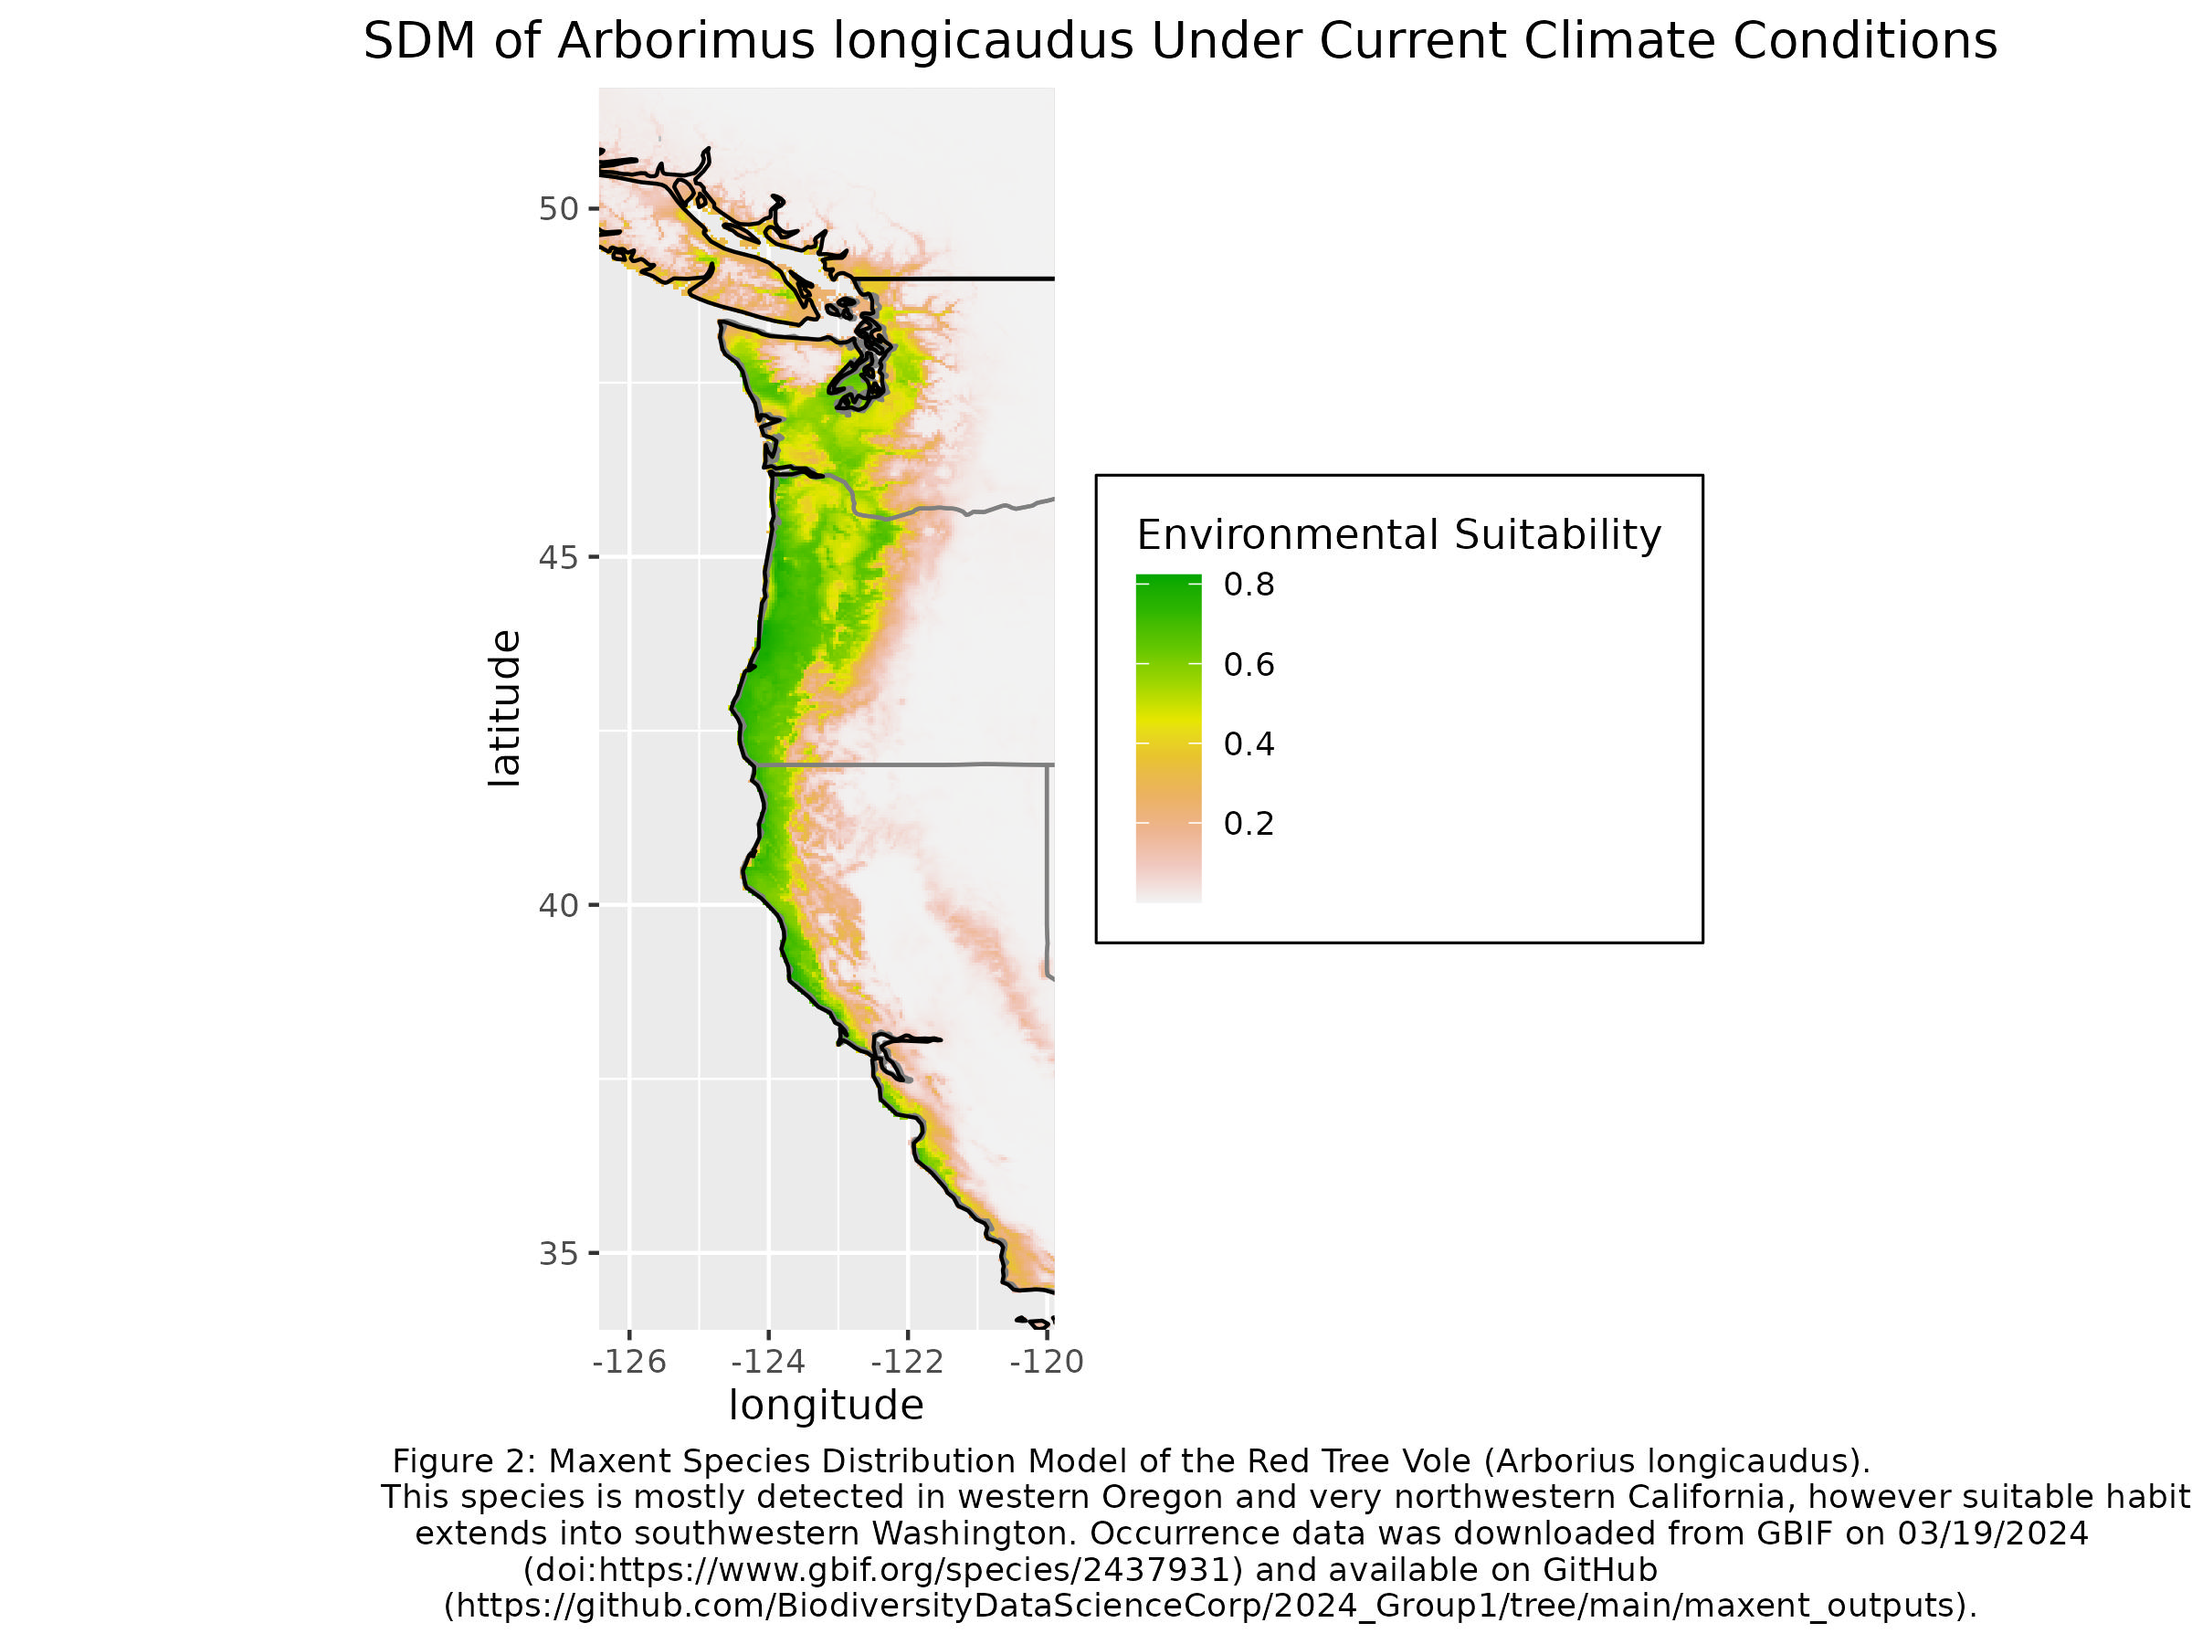
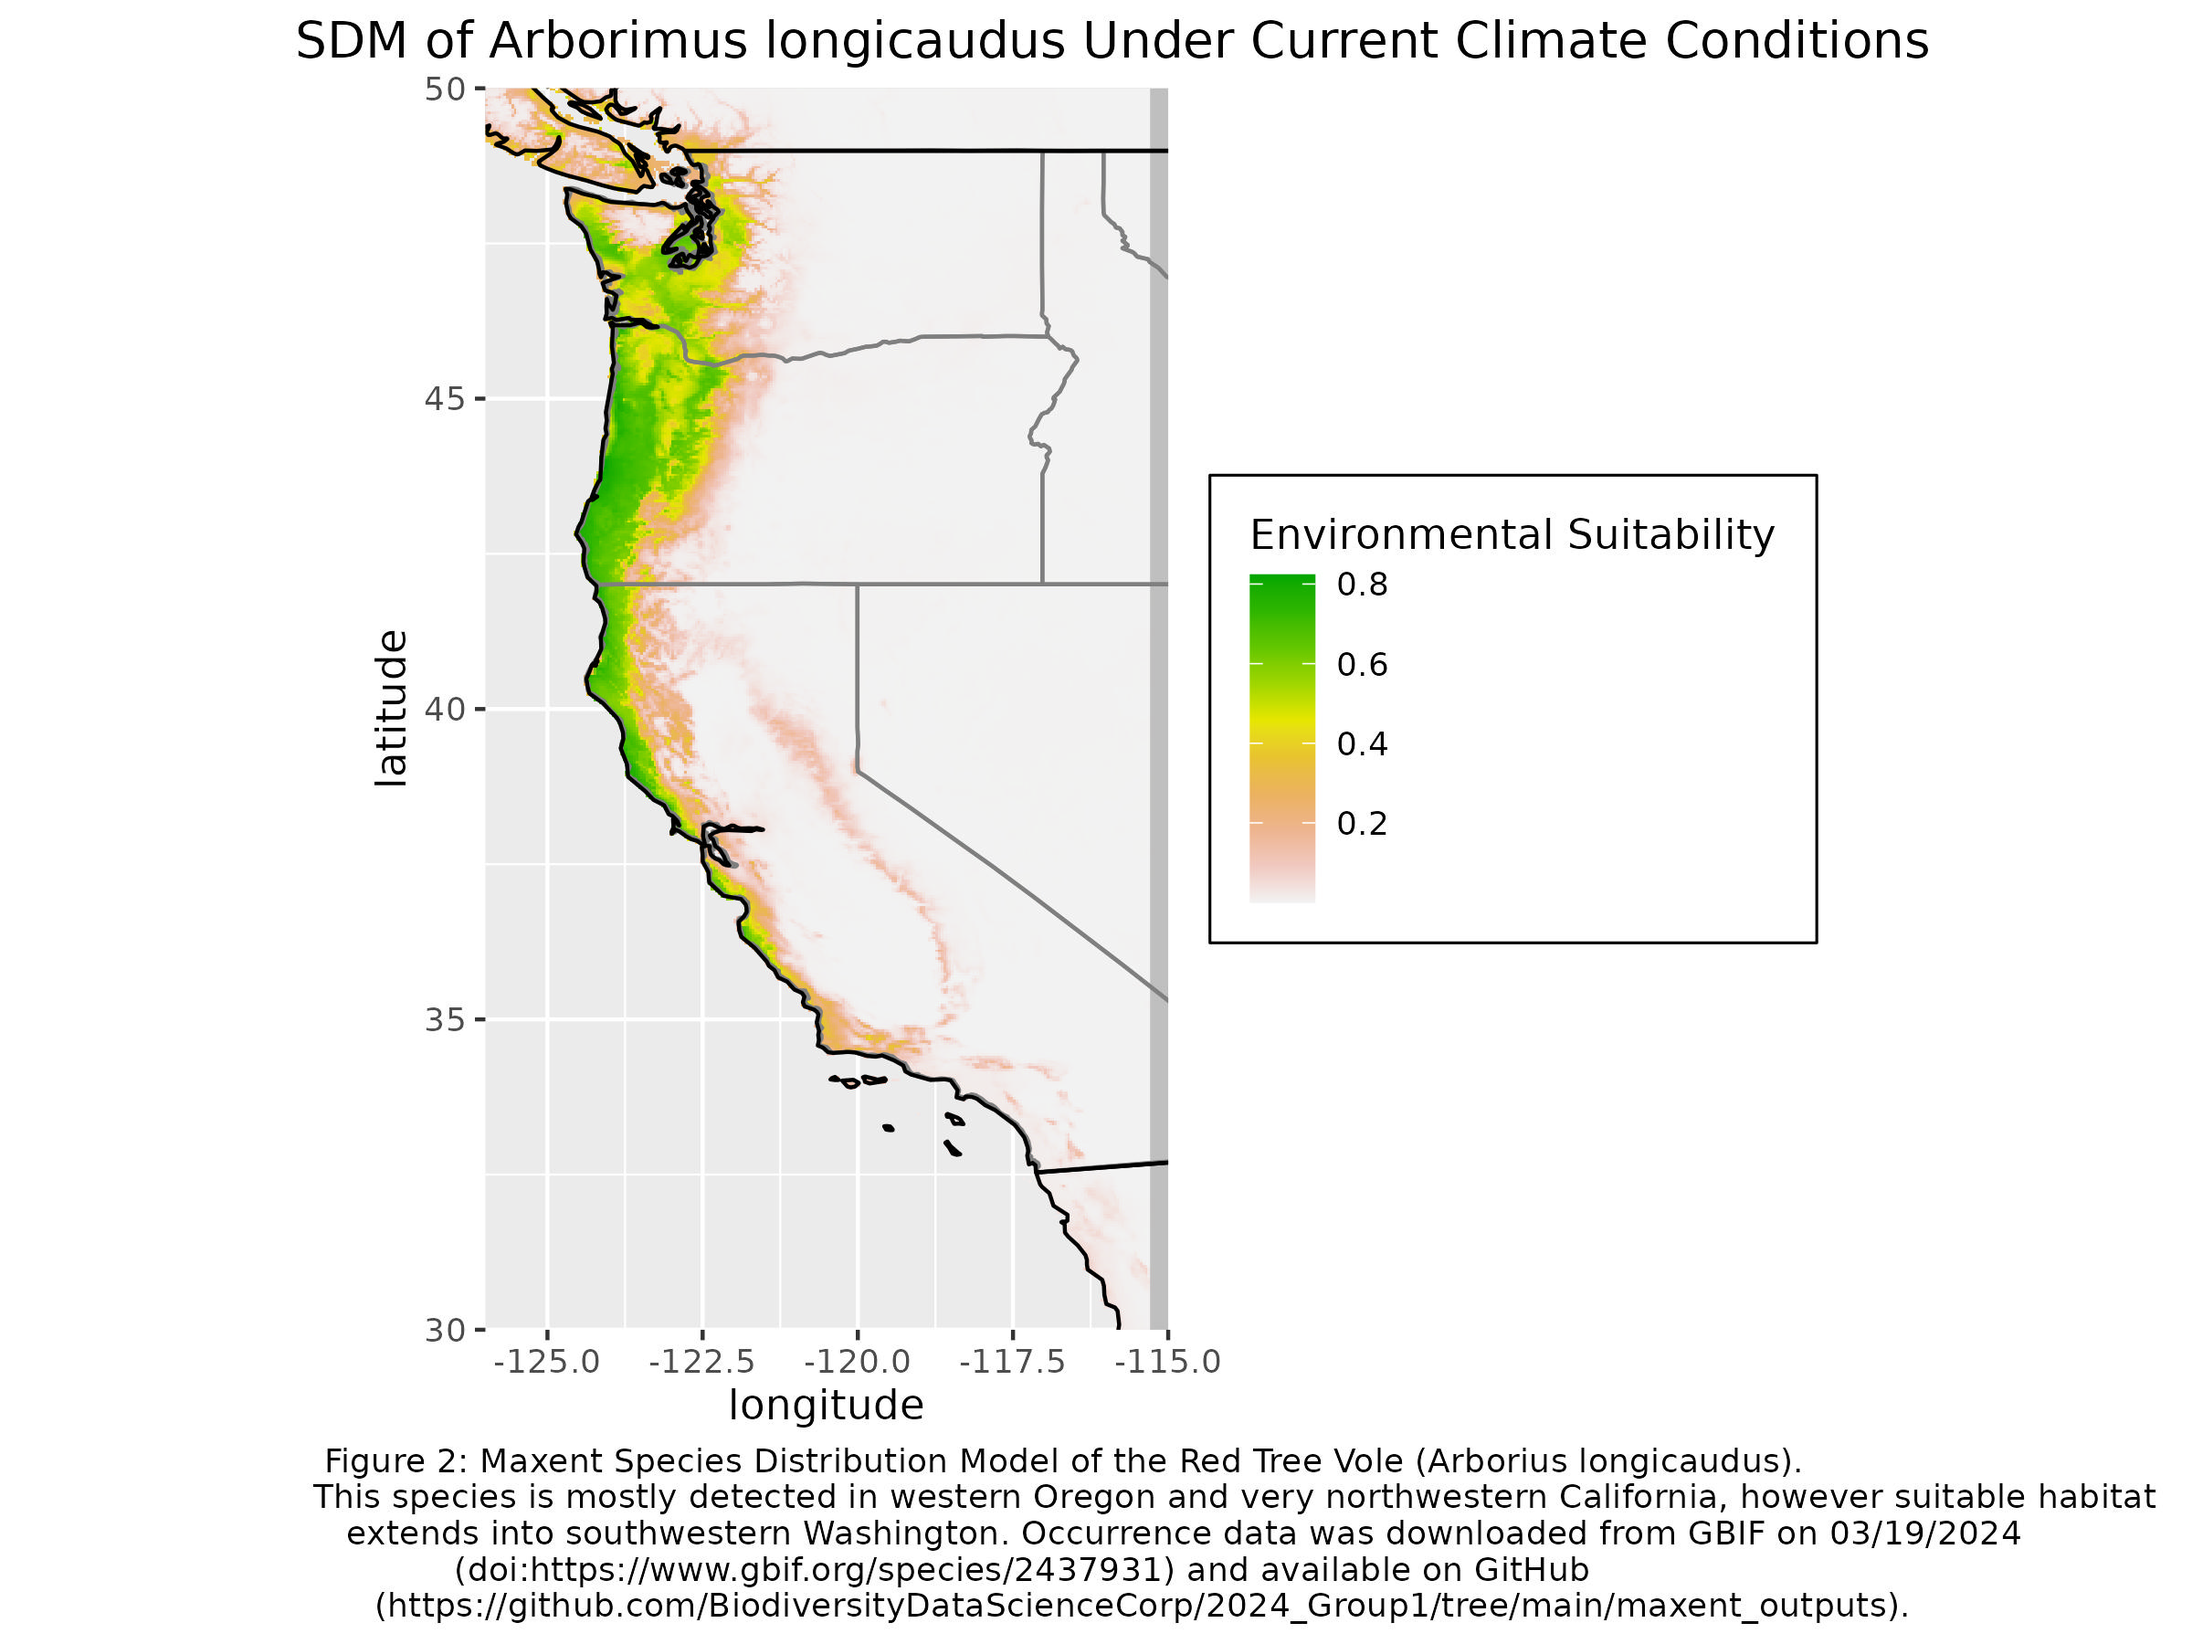
made map bigger

diff --git a/maxent_outputs/maxent.html b/maxent_outputs/maxent.html
@@ -1,6 +1,6 @@
 <title>Maxent model</title>
 <CENTER><H1>Maxent model</H1></CENTER>
-<br> This page contains some analysis of the Maxent model result, created Thu Mar 21 22:21:01 UTC 2024 using 'dismo' version  1.3-14 & Maxent version 3.4.3.  If you would like to do further analyses, the raw data used here is linked to at the end of this page.<br>
+<br> This page contains some analysis of the Maxent model result, created Tue Apr 02 18:48:42 UTC 2024 using 'dismo' version  1.3-14 & Maxent version 3.4.3.  If you would like to do further analyses, the raw data used here is linked to at the end of this page.<br>
 <br><HR><H2>Analysis of omission/commission</H2>
 The following picture shows the omission rate and predicted area as a function of the cumulative threshold.  The omission rate is is calculated both on the training presence records, and (if test data are used) on the test records.  The omission rate should be close to the predicted omission, because of the definition of the cumulative threshold.
 <br><img src="plots/species_omission.png"><br>

diff --git a/maxent_outputs/species.html b/maxent_outputs/species.html
@@ -1,6 +1,6 @@
 <title>Maxent model for species</title>
 <CENTER><H1>Maxent model for species</H1></CENTER>
-<br> This page contains some analysis of the Maxent model for species, created Thu Mar 21 22:21:01 UTC 2024 using Maxent version 3.4.3.  If you would like to do further analyses, the raw data used here is linked to at the end of this page.<br>
+<br> This page contains some analysis of the Maxent model for species, created Tue Apr 02 18:48:42 UTC 2024 using Maxent version 3.4.3.  If you would like to do further analyses, the raw data used here is linked to at the end of this page.<br>
 <br><HR><H2>Analysis of omission/commission</H2>
 The following picture shows the omission rate and predicted area as a function of the cumulative threshold.  The omission rate is is calculated both on the training presence records, and (if test data are used) on the test records.  The omission rate should be close to the predicted omission, because of the definition of the cumulative threshold.
 <br><img src="plots/species_omission.png"><br>
